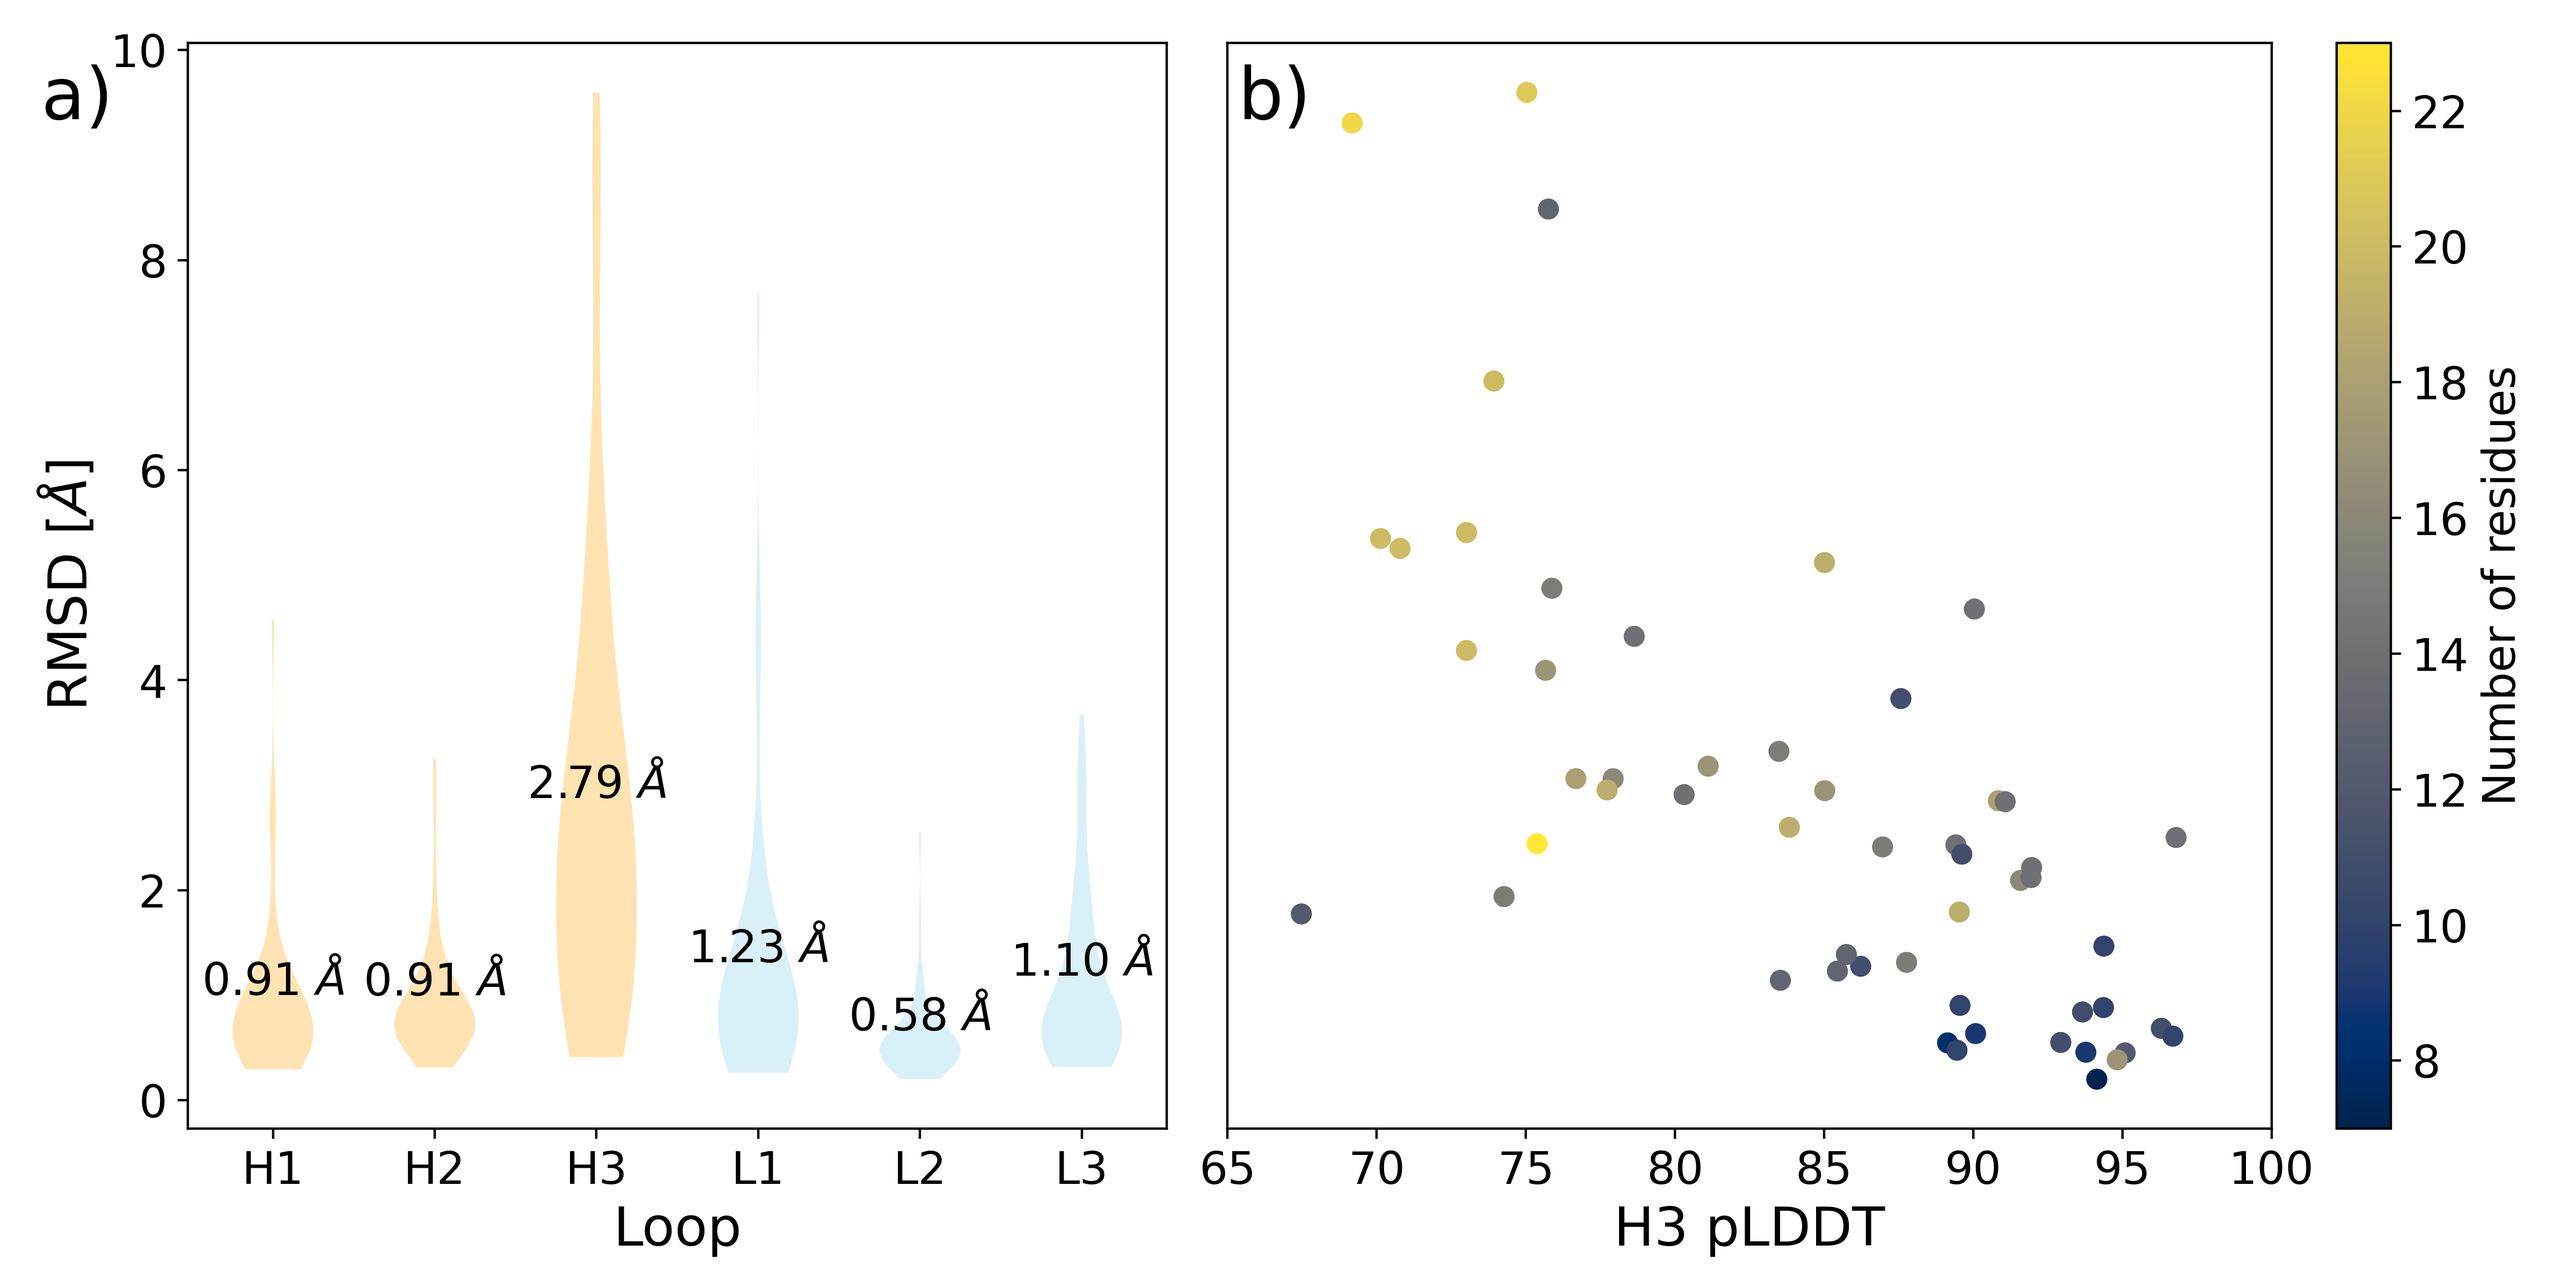
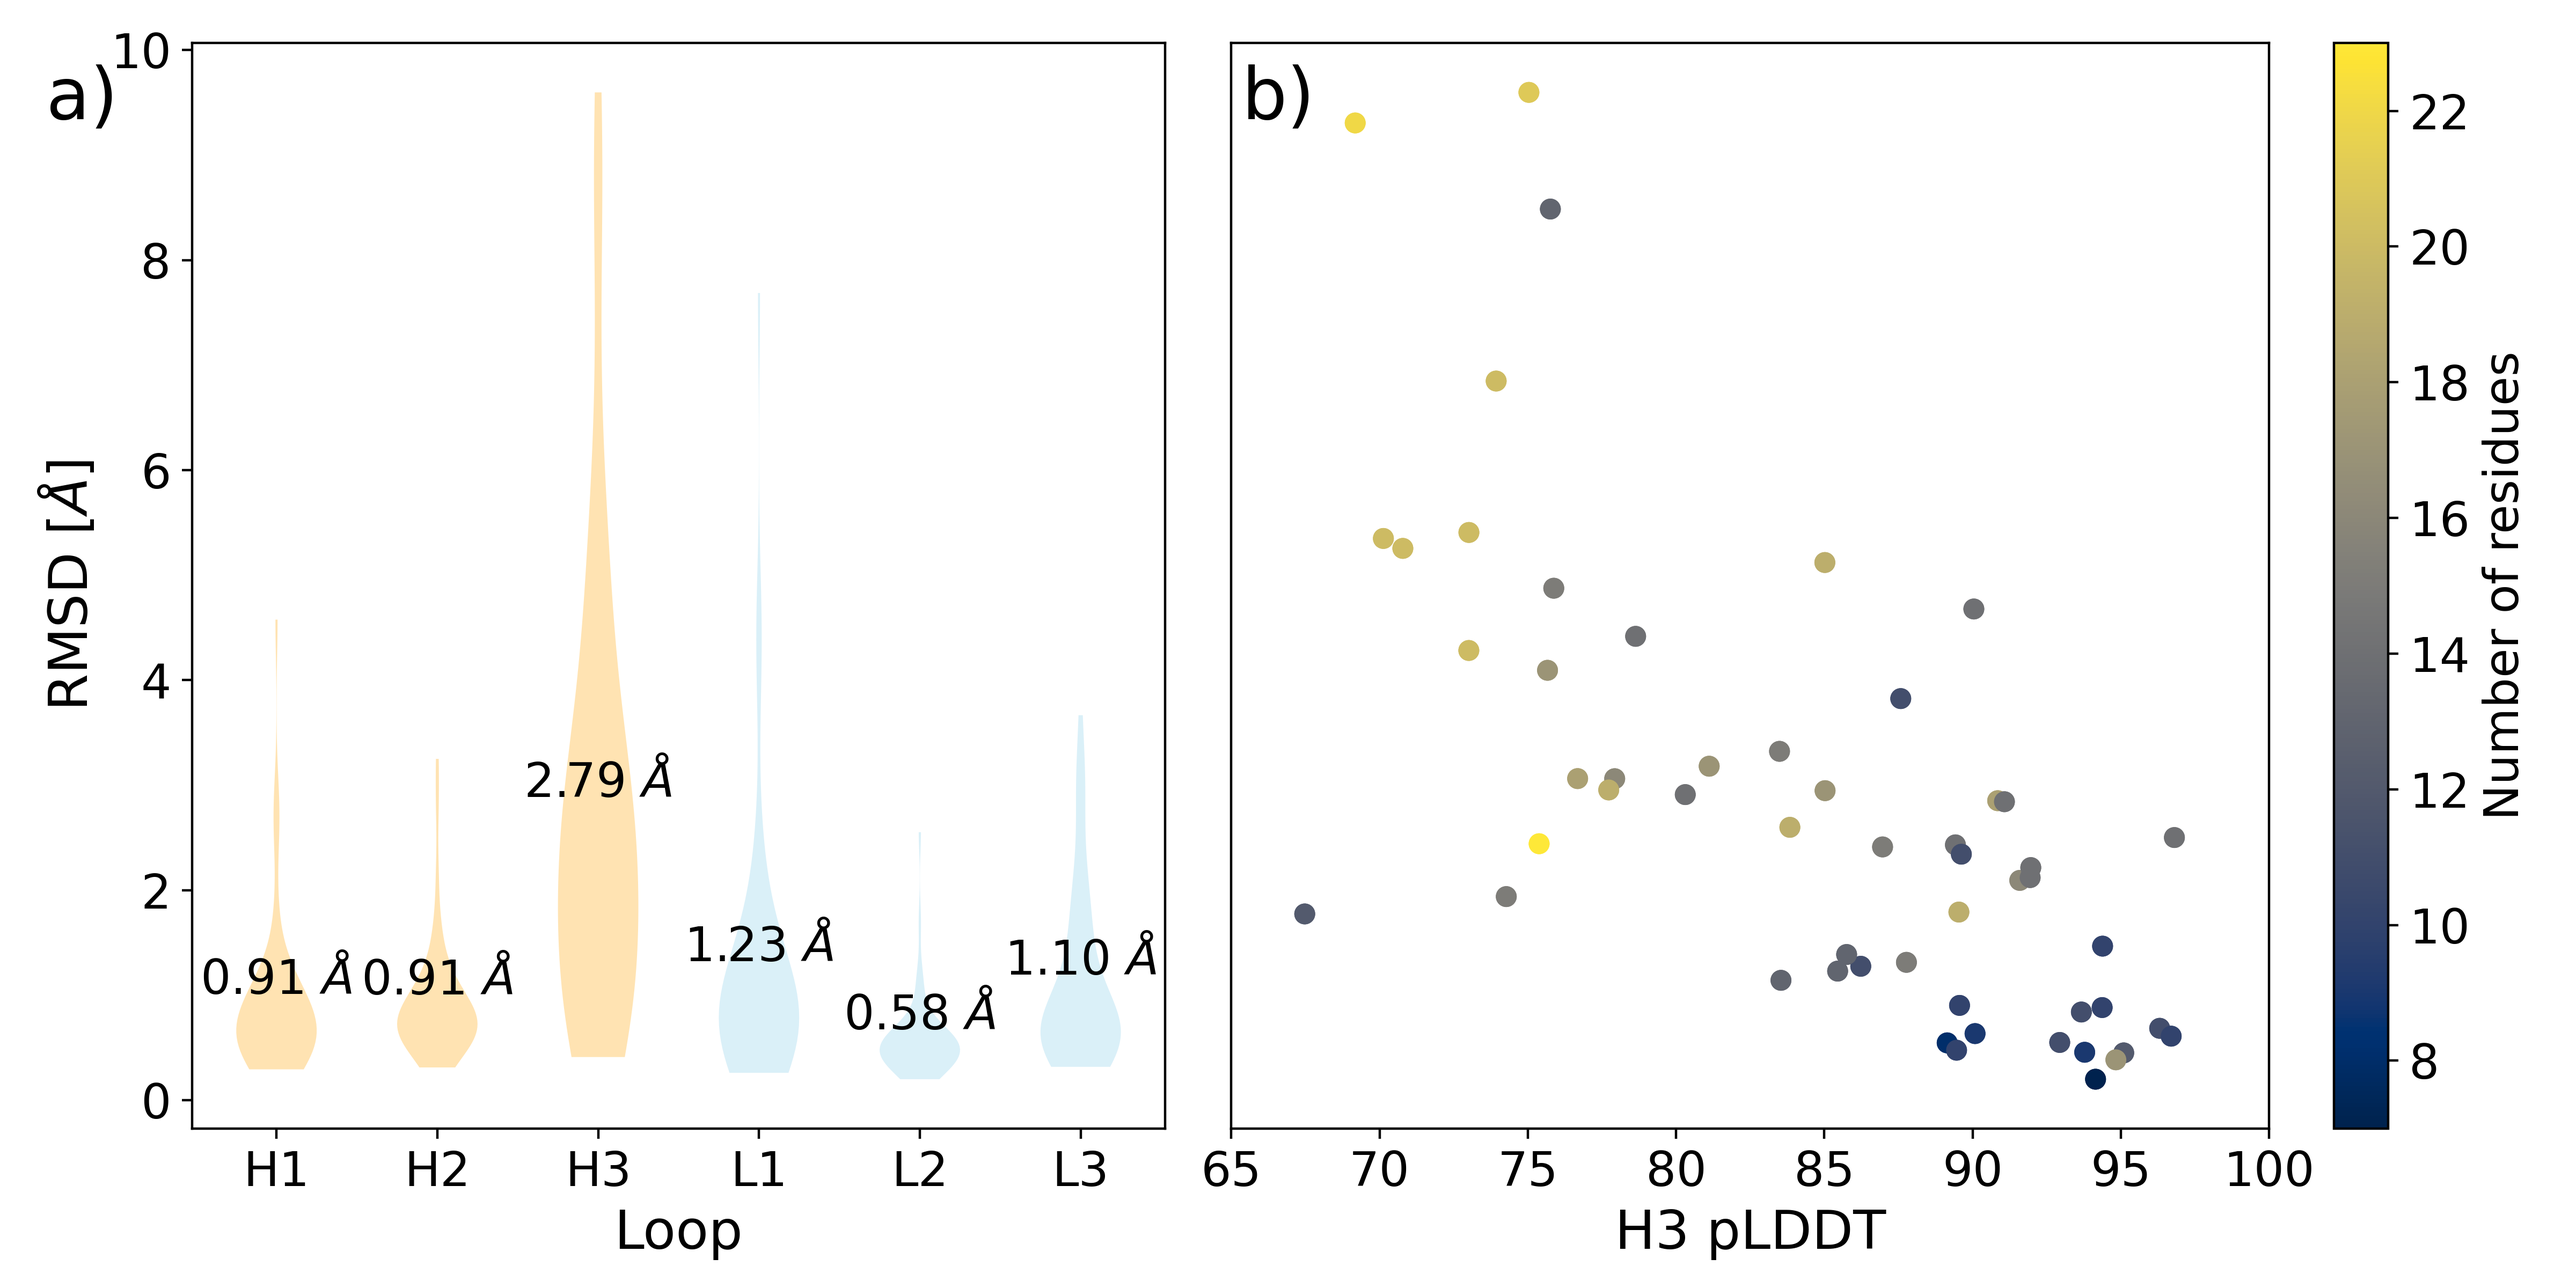
increased fontsize in figures

diff --git a/analysis/docking_analysis.py b/analysis/docking_analysis.py
@@ -85,13 +85,13 @@ ax[1,1].bar(ns_aranged+width/2, bars_afens_epivag_emref_u_high, width, color='da
 for i in range(2):
     ax[0,i].set_ylim(0,1.01)
     ax[1,i].set_ylim(0,1.01)
-    ax[i,0].set_ylabel('Success Rate (%)', fontsize=18)
+    ax[i,0].set_ylabel('Success Rate (%)', fontsize=20)
     ax[1,i].set_xticks(ns_aranged)
-    ax[1,i].set_xticklabels(tns, fontsize=14)
+    ax[1,i].set_xticklabels(tns, fontsize=16)
     # for ax[0,i] delete xticks
     ax[0,i].set_xticks([])
     ax[i,0].set_yticks(np.arange(0,1.01,0.2))
-    ax[i,0].set_yticklabels([f"{el}" for el in np.arange(0,101,20)], fontsize=14)
+    ax[i,0].set_yticklabels([f"{el}" for el in np.arange(0,101,20)], fontsize=16)
     # for ax[i,1] delete yticks
     ax[i,1].set_yticks([])
     # horizontal bars at 20-40-60-80
@@ -99,18 +99,18 @@ for i in range(2):
         ax[i,0].axhline(j*0.2, color='grey', linestyle='dashed', linewidth=1)
         ax[i,1].axhline(j*0.2, color='grey', linestyle='dashed', linewidth=1)
 
-ax[0,0].set_title('Bound antigen', fontsize=18)
-ax[0,1].set_title('Unbound antigen', fontsize=18)
+ax[0,0].set_title('Bound antigen', fontsize=20)
+ax[0,1].set_title('Unbound antigen', fontsize=20)
 # put a y label on the right side of ax[0,1]
-ax[0,1].set_ylabel('Para-Epi', fontsize=18)
+ax[0,1].set_ylabel('Para-Epi', fontsize=20)
 ax[0,1].yaxis.set_label_position("right")
-ax[1,1].set_ylabel('CDR-EpiVag', fontsize=18)
+ax[1,1].set_ylabel('CDR-EpiVag', fontsize=20)
 ax[1,1].yaxis.set_label_position("right")
 # I would like these two labels to be a bit more to the right
 ax[0,1].yaxis.set_label_coords(1.03,0.5)
 ax[1,1].yaxis.set_label_coords(1.03,0.5)
 
-fig.legend(loc='lower center', bbox_to_anchor=(0.5, -0.055), ncol=3, fontsize=14, bbox_transform=fig.transFigure)
+fig.legend(loc='lower center', bbox_to_anchor=(0.5, -0.07), ncol=3, fontsize=16, bbox_transform=fig.transFigure)
 
 plt.tight_layout()
 plt.savefig("figures/docking_table.png", bbox_inches='tight', dpi=400)

diff --git a/analysis/alphafold_analysis_rmsd-plddt.py b/analysis/alphafold_analysis_rmsd-plddt.py
@@ -140,24 +140,24 @@ for i, pc in enumerate(plots['bodies']):
 #ax.set_title(title)
 ax[0].set_ylabel("RMSD [$\AA$]", fontsize=18)
 ax[0].set_xticks([1, 2, 3, 4, 5, 6])
-ax[0].set_xticklabels(["H1", "H2", "H3", "L1", "L2", "L3"], fontsize=15)
+ax[0].set_xticklabels(["H1", "H2", "H3", "L1", "L2", "L3"], fontsize=16)
 ax[0].set_xlabel("Loop", fontsize=18)
 ## Set the color of the violin patches
 averages = [np.mean(el) for el in data]
 for i, mean in enumerate(averages):
-    ax[0].text(i + 1, mean, f'${mean:.2f}\ \AA$', ha='center', va='bottom', color='black', fontsize=15)
+    ax[0].text(i + 1, mean, f'${mean:.2f}\ \AA$', ha='center', va='bottom', color='black', fontsize=16)
 ## change the fontsize of the y labels
-ax[0].tick_params(axis='y', labelsize=15)
+ax[0].tick_params(axis='y', labelsize=16)
 ax[1].scatter(best_ranked_h3plddt, best_ranked_h3rmsd, c=h3_lengths, cmap="cividis")
 # ax[1].set_ylabel("RMSD [$\AA$]")
 ax[1].set_xlabel("H3 pLDDT", fontsize=18)
 cbar = plt.colorbar(ax[1].scatter(best_ranked_h3plddt, best_ranked_h3rmsd, c=h3_lengths, cmap="cividis"), ax=ax[1])
-cbar.set_label('Number of residues', loc="center", rotation=90, fontsize=15)
+cbar.set_label('Number of residues', loc="center", rotation=90, fontsize=16)
 # cbar ticks fontsize
-cbar.ax.tick_params(labelsize=15)
+cbar.ax.tick_params(labelsize=16)
 # x labels : starting from 65 to 100 spaced by 5
 ax[1].set_xticks(np.arange(65, 101, 5))
-ax[1].tick_params(axis='x', labelsize=15)
+ax[1].tick_params(axis='x', labelsize=16)
 # no y ticks
 ax[1].set_yticks([])
 # adding a and b labels 
